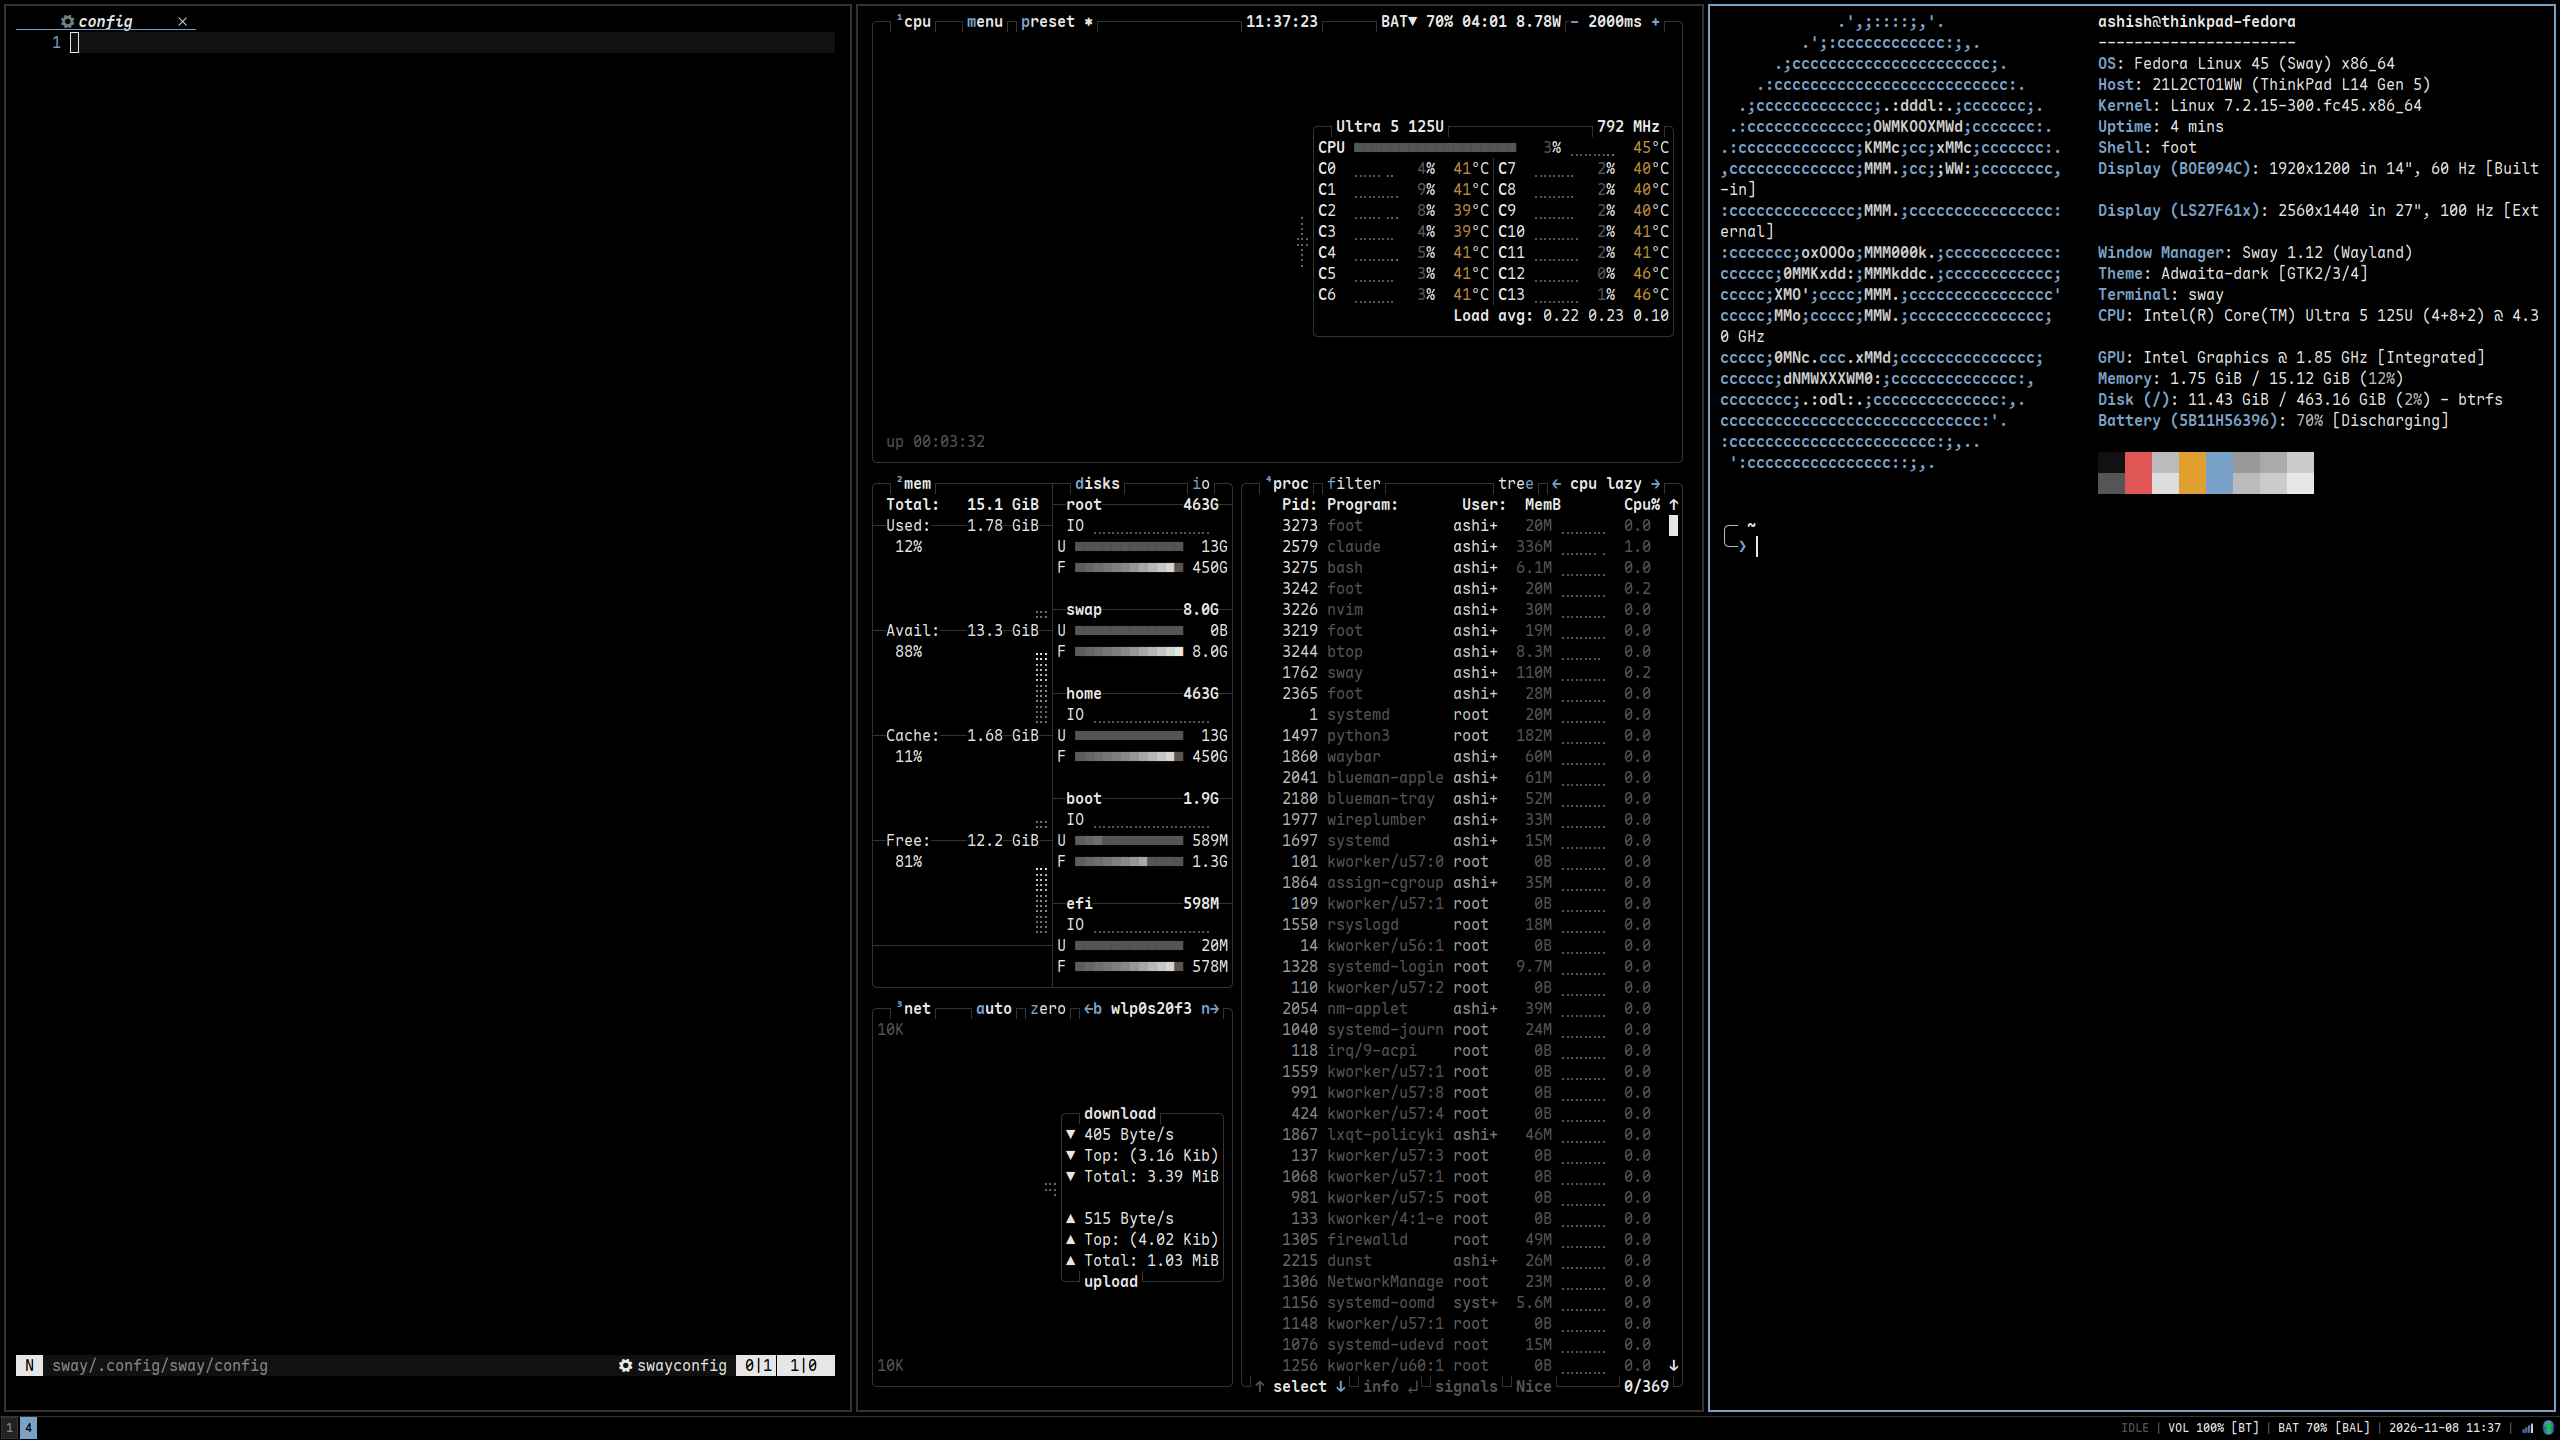
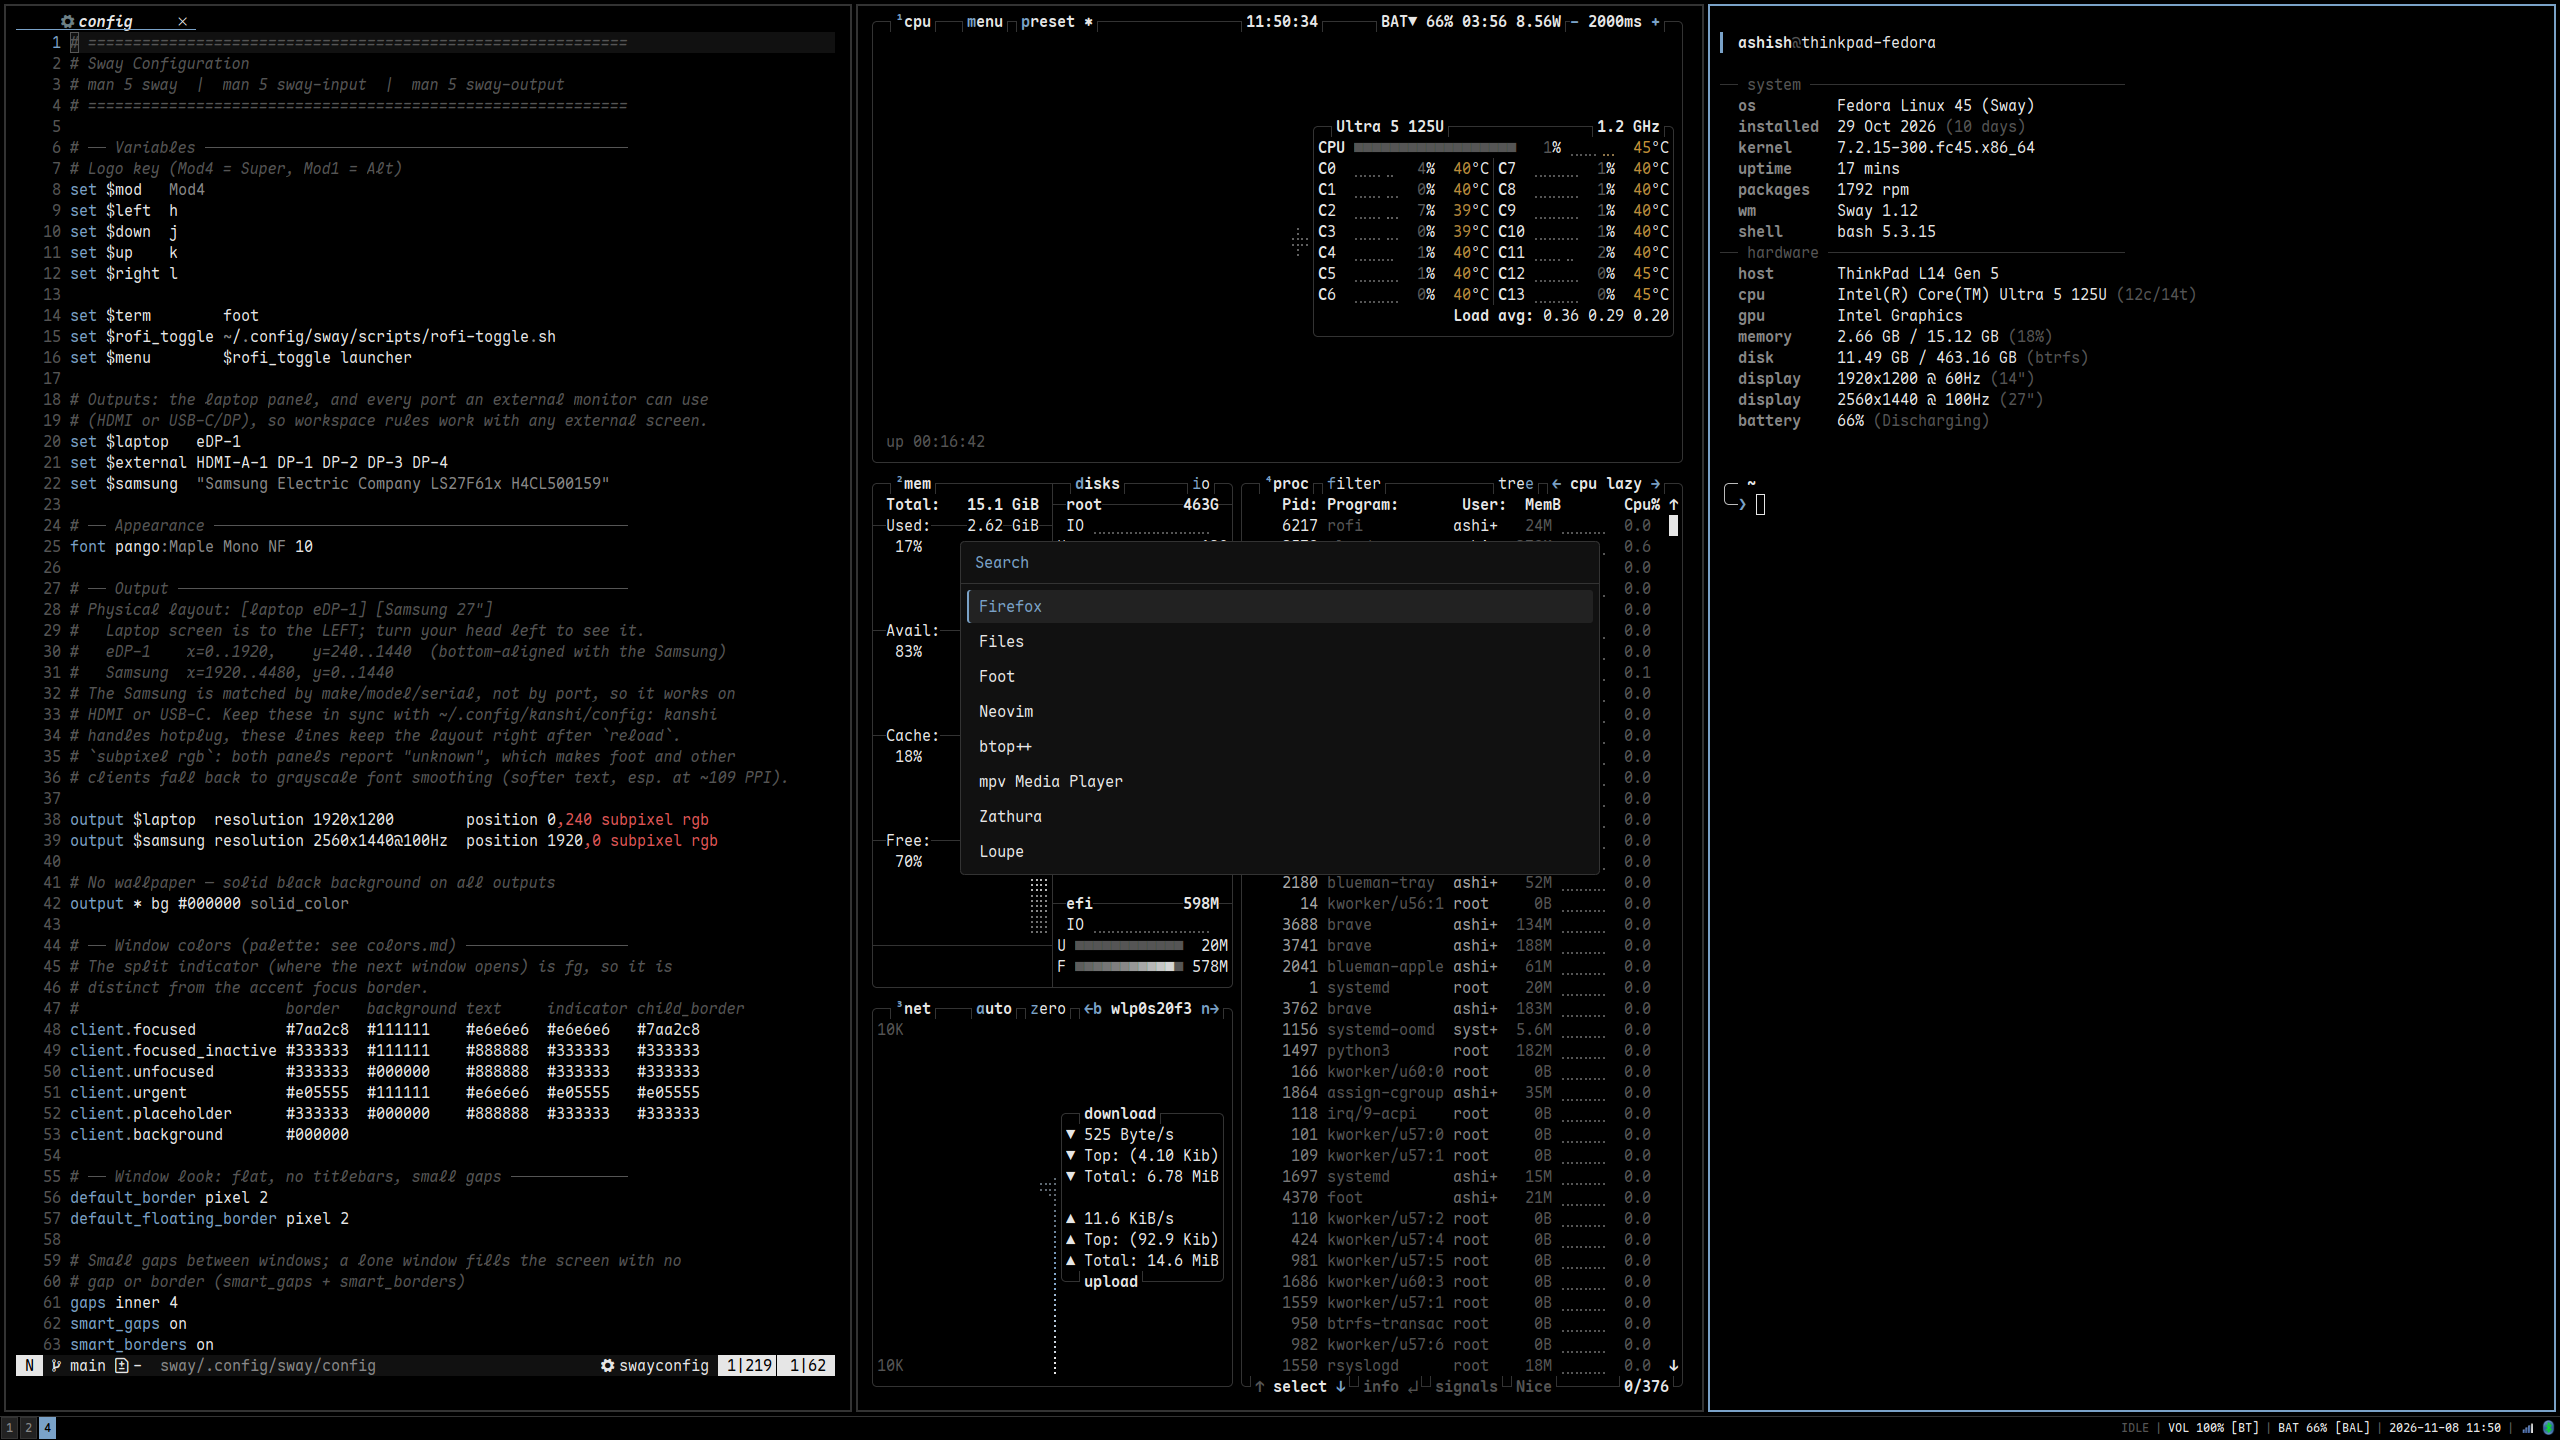
feat(fastfetch): monochrome config with install age; refresh desktop screenshot
Sectioned layout matching waybar/rofi: no logo, muted keys, dim detail,
accent edge on the title. The installed line shows the date and days
since install (from the filesystem rpm). Screenshot now includes rofi.

diff --git a/README.md b/README.md
@@ -33,7 +33,7 @@ Each directory is a Stow package, linked into `~` (`.stowrc` sets the options).
 | `foot` | Terminal |
 | `swaylock` | Screen locker |
 | `bash`, `starship` | Shell and prompt |
-| `nvim`, `btop`, `mpv`, `zathura` | Editor, monitor, video, PDF |
+| `nvim`, `btop`, `fastfetch`, `mpv`, `zathura` | Editor, monitor, system info, video, PDF |
 | `fontconfig`, `xdg-desktop-portal-wlr` | Fonts, screen sharing |
 
 ```bash
